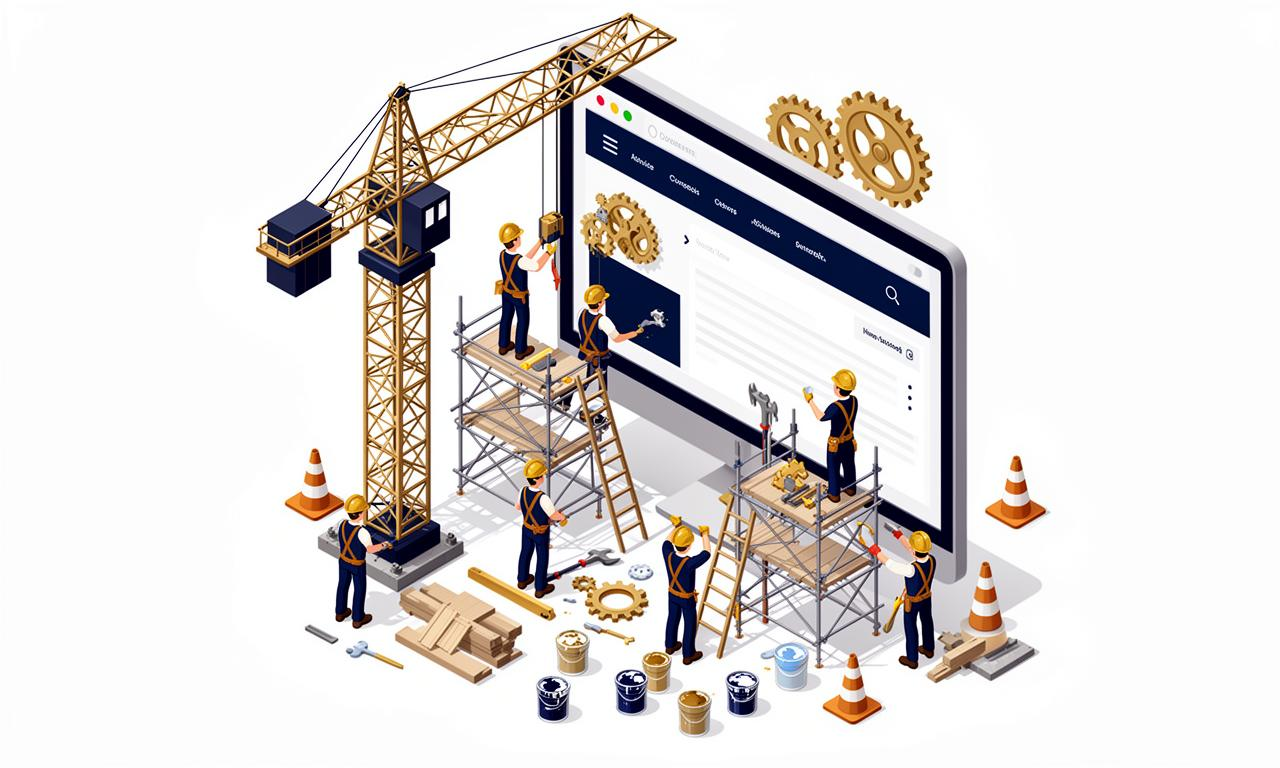
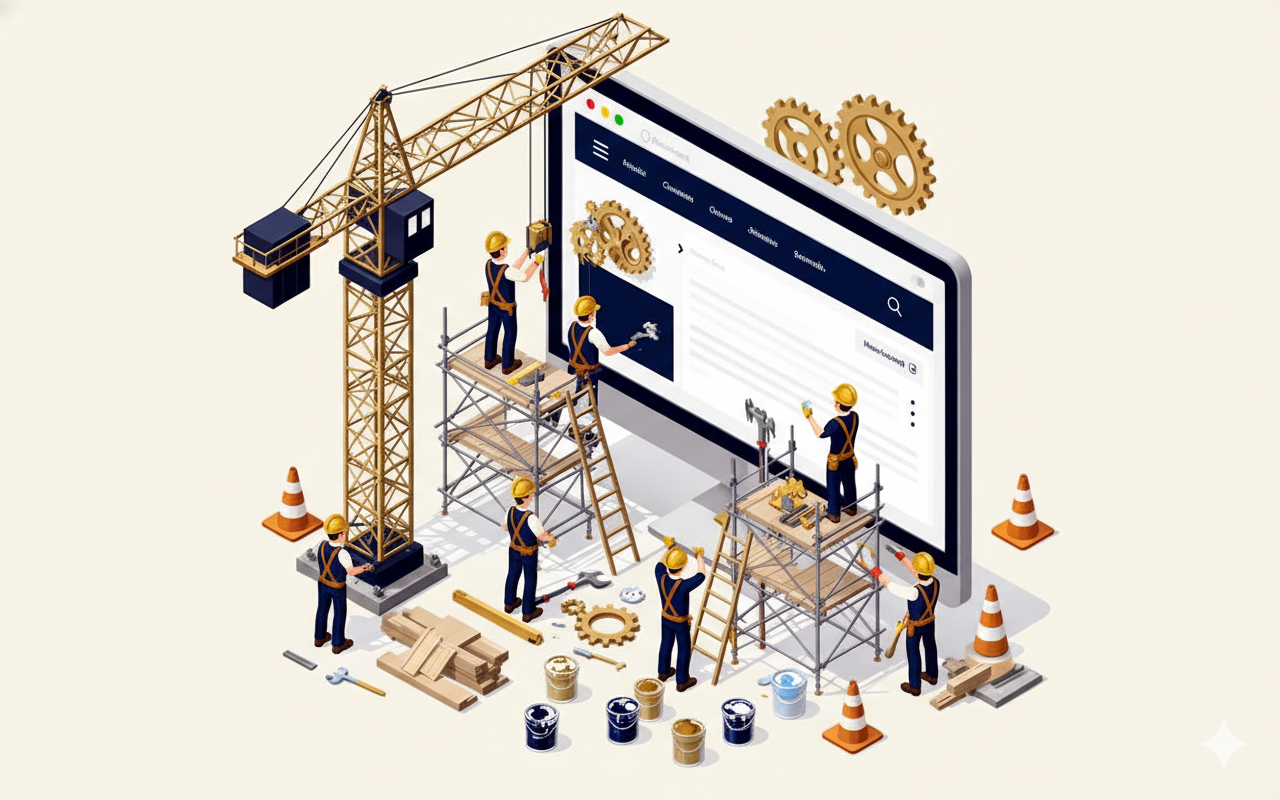
styling, title

Changed region(s): [[0.1562, 0.0, 0.8438, 0.9688], [0.9688, 0.0, 1.0, 0.0625], [0.0, 0.0, 0.0312, 0.0312]]

diff --git a/index.html b/index.html
@@ -4,19 +4,13 @@
     <meta charset="UTF-8" />
     <meta name="viewport" content="width=device-width, initial-scale=1.0" />
     <!-- TODO: Set the document title to the name of your application -->
-    <title>Lovable App</title>
+    <title>Mimo Branding & Supplies</title>
     <meta name="description" content="Lovable Generated Project" />
     <meta name="author" content="Lovable" />
 
-    <!-- TODO: Update og:title to match your application name -->
-    <meta property="og:title" content="Lovable App" />
-    <meta property="og:description" content="Lovable Generated Project" />
+    <meta property="og:title" content="Mimo Branding & Supplies" />
+    <meta property="og:description" content="Mimo Branding & Supplies" />
     <meta property="og:type" content="website" />
-    <meta property="og:image" content="https://lovable.dev/opengraph-image-p98pqg.png" />
-
-    <meta name="twitter:card" content="summary_large_image" />
-    <meta name="twitter:site" content="@Lovable" />
-    <meta name="twitter:image" content="https://lovable.dev/opengraph-image-p98pqg.png" />
   </head>
 
   <body>

diff --git a/src/pages/Index.tsx b/src/pages/Index.tsx
@@ -122,9 +122,9 @@ const Index = () => {
             <MessageCircle className="w-4 h-4" />
             WhatsApp
           </a>
-          <a href="mailto:info@mimobranding.com" className="flex items-center gap-2 hover:text-accent transition-colors">
+          <a href="mailto:supplies@mimobranding.com" className="flex items-center gap-2 hover:text-accent transition-colors">
             <Mail className="w-4 h-4" />
-            info@mimobranding.com
+            supplies@mimobranding.com
           </a>
         </motion.div>
       </main>

diff --git a/src/index.css b/src/index.css
@@ -6,7 +6,7 @@
 
 @layer base {
   :root {
-    --background: 40 33% 96%;
+    --background: 41 47% 93%;
     --foreground: 215 50% 15%;
 
     --card: 0 0% 100%;
